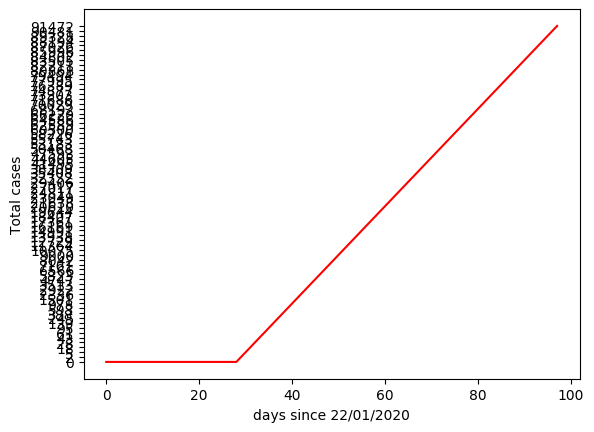
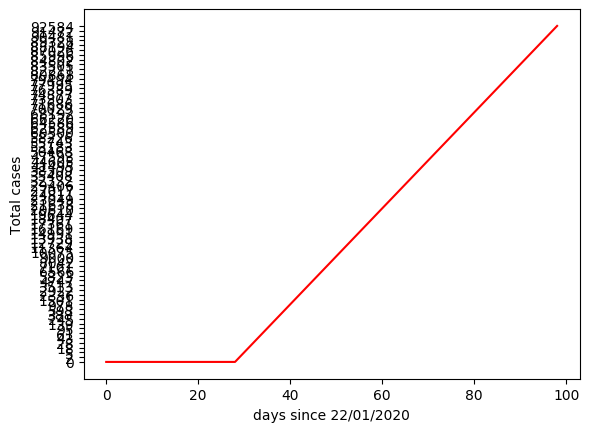
updated statistics

diff --git a/stats_page.html b/stats_page.html
@@ -27,38 +27,38 @@
     <a href="https://www.worldometers.info/coronavirus/", target="_blank">
       <div class="cases source">
         <h1>World-wide cases</h1>
-        <p>Total: 7</p>
-        <p>Active: 7</p>
-        <p>Recovered: 7</p>
-        <p>Deaths: 7</p>
+        <p>Total: 3,188,596</p>
+        <p>Active: 1,976,360</p>
+        <p>Recovered: 986,621</p>
+        <p>Deaths: 1,976,360</p>
       </div>
     </a>
     <div class="cases">
       <h1>Lebanese cases</h1>
-      <p>Total: 7</p>
-      <p>Active: 7</p>
-      <p>Recovered: 7</p>
-      <p>Deaths: 7</p>
+      <p>Total: 721</p>
+      <p>Active: 547</p>
+      <p>Recovered: 150</p>
+      <p>Deaths: 547</p>
       <img src="python_program/images/data_corona_plot_Lebanon.png", alt="line plot">
     </div>
     <div class="cases">
       <h1>Iranian cases</h1>
-      <p>Total: 7</p>
-      <p>Active: 7</p>
-      <p>Recovered: 7</p>
-      <p>Deaths: 7</p>
+      <p>Total: 93,657</p>
+      <p>Active: 13,909</p>
+      <p>Recovered: 73,791</p>
+      <p>Deaths: 13,909</p>
       <img src="python_program/images/data_corona_plot_Iran.png", alt="line plot">
     </div>
     <div class="cases">
       <h1>Japanese cases</h1>
-      <p>Total: 7</p>
-      <p>Active: 7</p>
-      <p>Recovered: 7</p>
-      <p>Deaths: 7</p>
+      <p>Total: 13,736</p>
+      <p>Active: 11,443</p>
+      <p>Recovered: 1,899</p>
+      <p>Deaths: 11,443</p>
       <img src="python_program/images/data_corona_plot_Japan.png", alt="line plot">
     </div>
     <div class="updt">
-      <p>Last update: 27/04/2020</p>
+      <p>Last update: 28/04/2020</p>
     </div>
   </body>
 </html>

diff --git a/index.html b/index.html
@@ -44,17 +44,17 @@
         <h1 class="info_title">Statistics</h1>
         <div class="stats_div">
           <h3 class="stats_title">World-wide cases</h1>
-          <p class="stats_numbers">Total: 7</p>
-          <p class="stats_numbers">Active: 7</p>
-          <p class="stats_numbers">Recovered: 7</p>
-          <p class="stats_numbers">Deaths: 7</p>
+          <p class="stats_numbers">Total: 3,188,596</p>
+          <p class="stats_numbers">Active: 1,976,360</p>
+          <p class="stats_numbers">Recovered: 986,621</p>
+          <p class="stats_numbers">Deaths: 225,615</p>
         </div>
         <div class="stats_div">
           <h3 class="stats_title">Lebanese cases</h1>
-          <p class="stats_numbers">Total: 7</p>
-          <p class="stats_numbers">Active: 7</p>
-          <p class="stats_numbers">Recovered: 7</p>
-          <p class="stats_numbers">Deaths: 7</p>
+          <p class="stats_numbers">Total: 721</p>
+          <p class="stats_numbers">Active: 547</p>
+          <p class="stats_numbers">Recovered: 150</p>
+          <p class="stats_numbers">Deaths: 24</p>
         </div>
       </div>
     </a>
